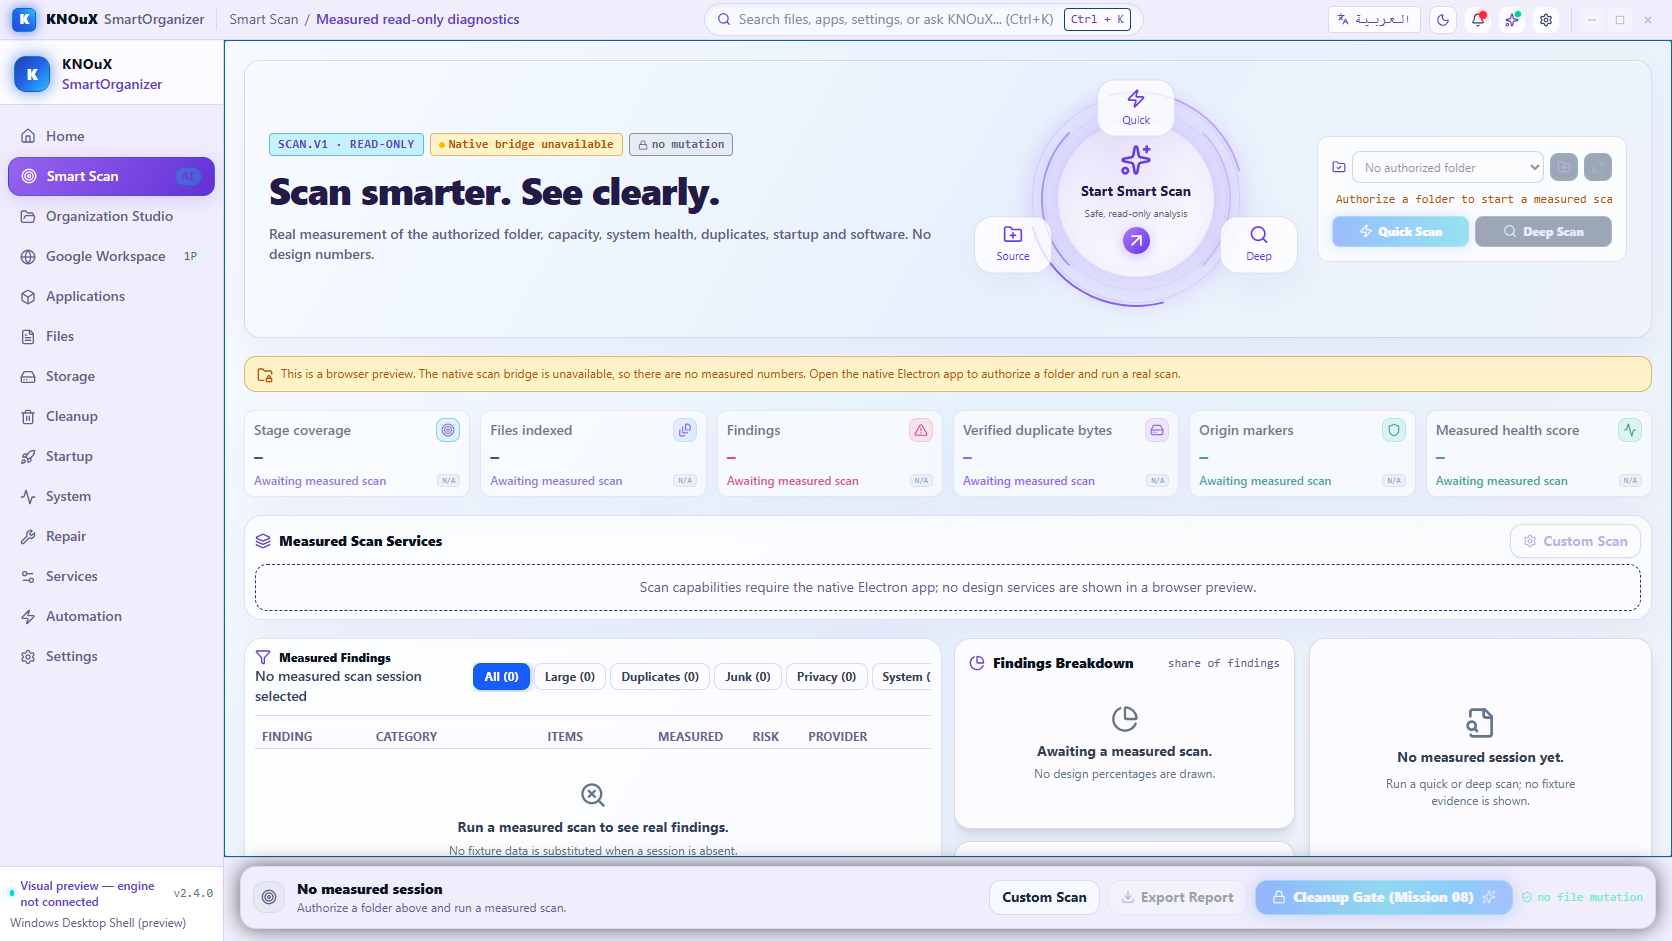
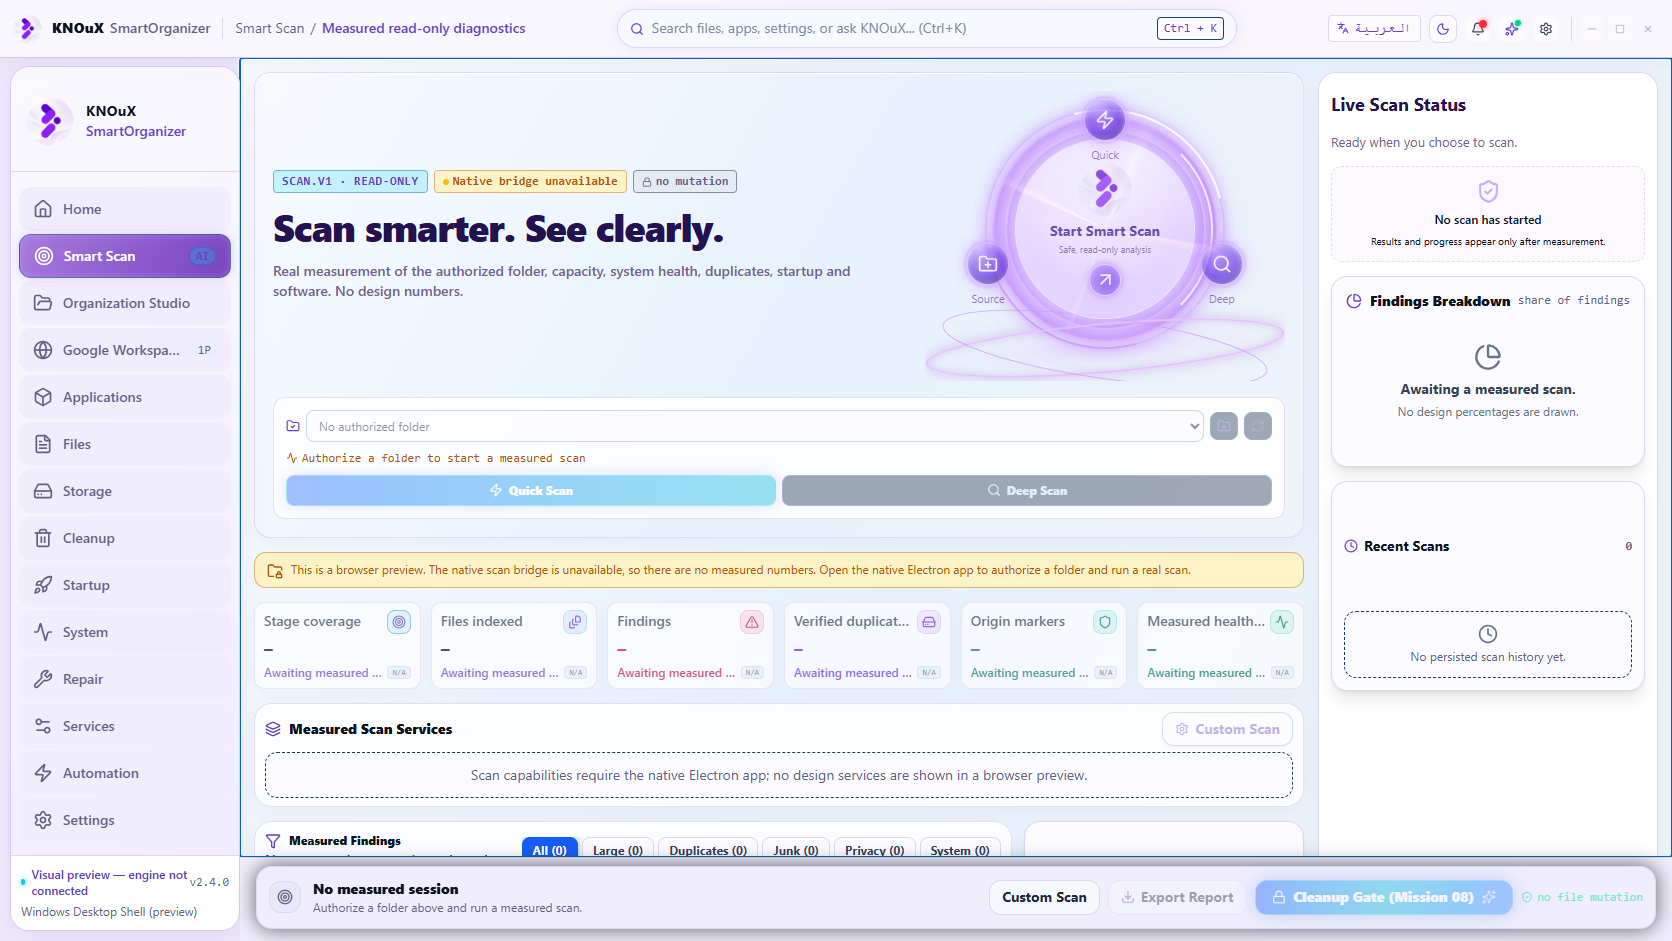
feat(visual): compose scan overview around a persistent measured status panel

diff --git a/apps/gemini-ui/src/visual/scan-reference.css b/apps/gemini-ui/src/visual/scan-reference.css
@@ -1,0 +1,18 @@
+.visual-sprint[data-visual-section='smart_scan'] .scan-main { display:grid; grid-template-columns:minmax(0,1fr) 340px; gap:14px !important; align-content:start; padding:14px !important; background:radial-gradient(ellipse at 55% 20%,#8758ba3d,transparent 60%),var(--v-bg) !important; }
+.visual-sprint[data-visual-section='smart_scan'] .scan-main > * { grid-column:1; min-width:0; }
+.visual-sprint[data-visual-section='smart_scan'] .scan-hero { grid-template-columns:minmax(0,1fr) 360px; grid-template-rows:auto auto; padding:18px !important; min-height:330px; background:var(--v-panel-soft) !important; }
+.visual-sprint[data-visual-section='smart_scan'] .scan-hero > .knx-orbit { display:block; }
+.visual-sprint[data-visual-section='smart_scan'] .scan-hero { height:max-content !important; min-height:440px; align-self:start; grid-template-rows:minmax(290px,auto) minmax(100px,auto); }
+.visual-sprint[data-visual-section='smart_scan'] .knx-scan-controls { grid-column:1/-1; }
+.visual-sprint[data-visual-section='smart_scan'] .knx-scan-controls > div { padding:12px; background:var(--v-panel) !important; }
+.visual-sprint[data-visual-section='smart_scan'] .knx-scan-controls select { background:#332b57; color:#efe9fc; }
+.visual-sprint[data-visual-section='smart_scan'] .scan-main > .knx-scan-status { grid-column:2; grid-row:1/span 6; display:flex; flex-direction:column; align-self:stretch; gap:14px; min-height:650px; border:1px solid var(--v-line); border-radius:18px; padding:18px 12px; background:var(--v-panel); box-shadow:var(--v-shadow); }
+.knx-scan-status > h2 { font-size:18px; font-weight:700; color:var(--v-ink); }.knx-scan-status > p { font-size:13px; line-height:1.5; color:var(--v-muted); }
+.knx-scan-status > div { background:var(--v-panel-soft) !important; border-color:var(--v-line); }
+.knx-scan-status [data-testid='scan-stage-console'] > div:last-child { flex-direction:column; align-items:stretch; gap:8px; overflow:visible; }.knx-scan-status [data-testid='scan-stage-console'] > div:last-child > span { padding:10px 8px; font-size:12px; white-space:normal; }
+.visual-sprint[data-visual-section='smart_scan'] .scan-services > .grid { grid-template-columns:repeat(3,minmax(0,1fr)); gap:12px; }
+.visual-sprint[data-visual-section='smart_scan'] .scan-results-grid { grid-template-columns:minmax(0,1fr) 280px; min-height:290px; }
+.visual-sprint[data-visual-section='smart_scan'] .scan-results-column,.visual-sprint[data-visual-section='smart_scan'] .scan-inspector-column { grid-column:auto; min-height:290px; height:auto; }
+html[data-theme='light'] .visual-sprint[data-visual-section='smart_scan'] .knx-scan-controls select { background:#fff; color:#46345f; }
+@media (max-width:1370px) { .visual-sprint[data-visual-section='smart_scan'] .scan-main { grid-template-columns:minmax(0,1fr) 300px; }.visual-sprint[data-visual-section='smart_scan'] .scan-hero { grid-template-columns:1fr; }.visual-sprint[data-visual-section='smart_scan'] .scan-hero > .knx-orbit { display:none; }.visual-sprint[data-visual-section='smart_scan'] .scan-results-grid { grid-template-columns:1fr; } }
+@media (max-width:1050px) { .visual-sprint[data-visual-section='smart_scan'] .scan-main { display:flex; }.visual-sprint[data-visual-section='smart_scan'] .scan-services > .grid { grid-template-columns:repeat(2,minmax(0,1fr)); } }

diff --git a/apps/gemini-ui/src/smart-scan/SmartScanPage.tsx b/apps/gemini-ui/src/smart-scan/SmartScanPage.tsx
@@ -313,6 +313,14 @@ export const SmartScanPage: React.FC<SmartScanPageProps> = ({ onNavigateSection 
               onRunDeep={handleRunDeep}
               onCancel={() => void scan.cancelActive()}
             />
+            <aside className="knx-scan-status">
+              <h2>{isArabic ? 'حالة الفحص المباشرة' : 'Live Scan Status'}</h2>
+              <p>{scan.active ? (isArabic ? 'الفحص جارٍ على النطاق المصرح.' : 'Measuring the authorized scope.') : (isArabic ? 'بانتظار فحص يبدأ باختيارك.' : 'Ready when you choose to scan.')}</p>
+              <ScanStageConsole active={scan.active} summary={scan.session?.summary || null} stages={stages} isArabic={isArabic} />
+              {!scan.active && !scan.session && <div className="knx-ref-empty"><ShieldCheck/><strong>{isArabic ? 'لم يبدأ الفحص' : 'No scan has started'}</strong><small>{isArabic ? 'لا تُعرض نتائج أو نسبة نجاح قبل القياس.' : 'Results and progress appear only after measurement.'}</small></div>}
+              <FindingsBreakdown categories={breakdown} isArabic={isArabic} hasSession={Boolean(scan.session)} />
+              <RecentScans records={recent} isArabic={isArabic} selectedId={scan.session?.id || null} onSelect={sessionId => void handleSelectHistory(sessionId)} loading={scan.busy} />
+            </aside>
 
             {!scan.nativeAvailable ? (
               <div className="flex items-start gap-2 rounded-xl border border-amber-500/35 bg-amber-950/20 px-3 py-2 text-[10px] text-amber-200 shrink-0">
@@ -350,16 +358,6 @@ export const SmartScanPage: React.FC<SmartScanPageProps> = ({ onNavigateSection 
                 />
               </div>
 
-              <div className="scan-side-column lg:col-span-1 2xl:col-span-3 flex flex-col gap-3 h-[360px] 2xl:h-full min-h-0 overflow-y-auto knx-custom-scrollbar pr-0.5">
-                <FindingsBreakdown categories={breakdown} isArabic={isArabic} hasSession={Boolean(scan.session)} />
-                <RecentScans
-                  records={recent}
-                  isArabic={isArabic}
-                  selectedId={scan.session?.id || null}
-                  onSelect={(sessionId) => void handleSelectHistory(sessionId)}
-                  loading={scan.busy}
-                />
-              </div>
 
               <div className="scan-inspector-column lg:col-span-1 2xl:col-span-3 h-[360px] 2xl:h-full min-h-0">
                 <ScanReviewInspector selectedItem={selectedItem} isArabic={isArabic} hasSession={Boolean(scan.session)} />
@@ -368,12 +366,6 @@ export const SmartScanPage: React.FC<SmartScanPageProps> = ({ onNavigateSection 
           </main>
 
           <div className="shrink-0 flex flex-col gap-2 px-3 sm:px-4 pb-3 pt-2 bg-[#050e1f]/90 border-t border-[#11294a] backdrop-blur-md z-30">
-            <ScanStageConsole
-              active={scan.active}
-              summary={scan.session?.summary || null}
-              stages={stages}
-              isArabic={isArabic}
-            />
             <ScanCommandBar
               session={scan.session}
               active={scan.active}

diff --git a/apps/gemini-ui/src/visual/reference-polish.css b/apps/gemini-ui/src/visual/reference-polish.css
@@ -4,6 +4,9 @@
 .visual-sprint[data-reference-shell='true'] .knx-title-official-mark { display:block; width:30px; height:30px; }
 .visual-sprint[data-reference-shell='true'] .knx-title-brand-emblem { width:30px; height:30px; background:transparent !important; border:0; box-shadow:none; }
 .visual-sprint .knx-orbit-core > .knx-official-mark { width:54px; height:54px; margin-bottom:3px; }
+.visual-sprint .knx-orbit { height:290px; overflow:hidden; isolation:isolate; }
+.visual-sprint .knx-orbit-track { top:25px; }.visual-sprint .knx-orbit-track-inner { top:37.5px; }.visual-sprint .knx-orbit-core { top:48px; }
+.visual-sprint .knx-orbit-tool { left:calc(50% + 135px * cos((var(--orbit-index) * 360deg / var(--orbit-count)) - 90deg)); top:calc(47% + 96px * sin((var(--orbit-index) * 360deg / var(--orbit-count)) - 90deg)); }
 .knx-reference-orbit-core > .knx-official-mark { width:79px; height:79px; margin-bottom:5px; }
 .visual-sprint[data-reference-shell='true'] .knx-sidebar-brand-emblem { width:49px; height:49px; }
 .visual-sprint[data-reference-shell='true'] .knx-shell-ribbonmark { width:49px; height:49px; filter:drop-shadow(0 3px 7px #110a3333); }

diff --git a/apps/gemini-ui/src/App.tsx b/apps/gemini-ui/src/App.tsx
@@ -47,6 +47,7 @@ import './visual/studio-reference.css';
 import './visual/reference-controls.css';
 import './visual/files-reference.css';
 import './visual/reference-polish.css';
+import './visual/scan-reference.css';
 import { CinematicEntry } from './features/cinematic-entry/CinematicEntry';
 
 export type { AppSection } from './context/NavigationContext';
@@ -118,7 +119,7 @@ function AppContent() {
 
   return (
     <>
-      <div className="visual-sprint" data-visual-section={currentSection} data-reference-shell={['studio', 'files'].includes(currentSection)}>{renderActiveWorkspace()}</div>
+      <div className="visual-sprint" data-visual-section={currentSection} data-reference-shell={['studio', 'files', 'smart_scan'].includes(currentSection)}>{renderActiveWorkspace()}</div>
       <KNOuXAssistantChat currentSection={currentSection} locale={isAr ? 'ar' : 'en'} />
       <ApiKeySetupModal
         isOpen={isApiKeyModalOpen}
